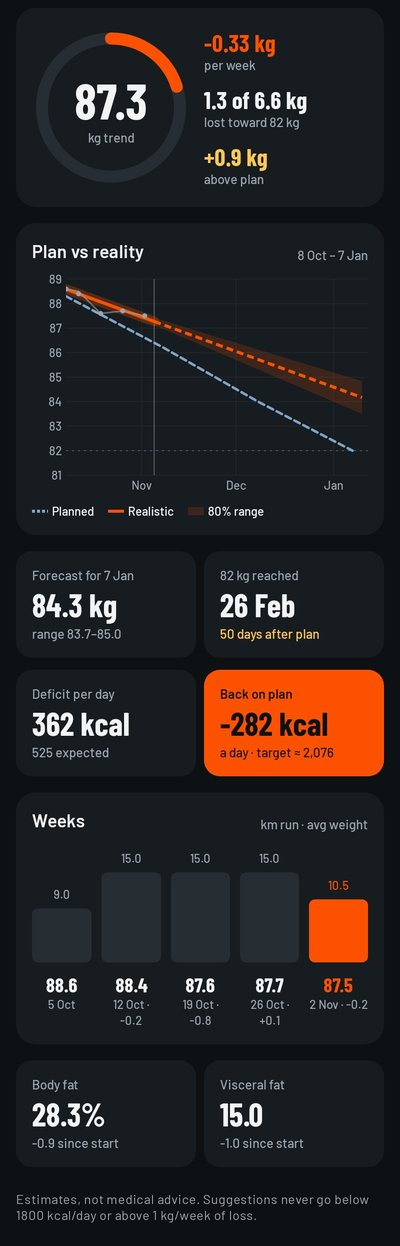
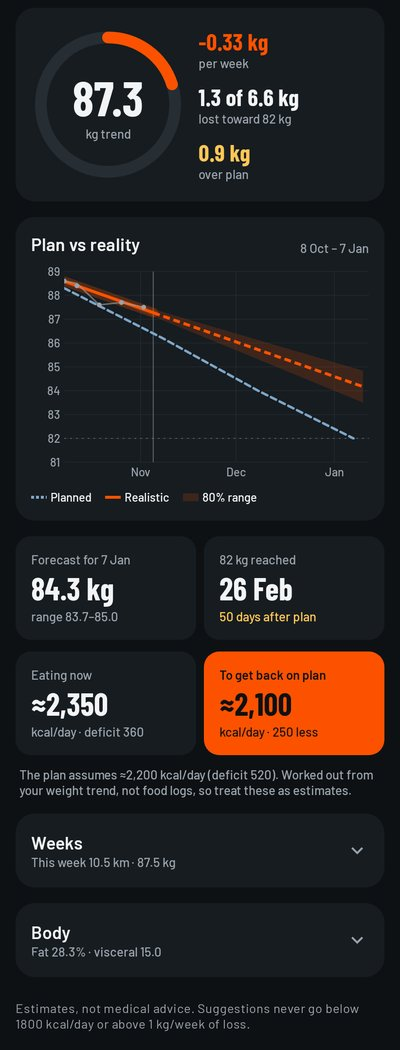
README: screenshots from v0.3.2, first tab called Trend
Claude-Session: https://claude.ai/code/session_01NhF2XaJMtCFQsU6AoPcjWX

diff --git a/README.md b/README.md
@@ -3,15 +3,15 @@
 A personal Android app for weight loss. It compares the **planned** trajectory with a **realistic**, data-driven forecast
 that updates every time you log a weight. Everything stays on the phone: no accounts, no cloud.
 
-| Dashboard | Today | Runs | Body | Plan |
+| Trend | Today | Runs | Body | Plan |
 |---|---|---|---|---|
-| ![Dashboard](docs/screenshots/1-dashboard.jpg) | ![Today](docs/screenshots/2-today.jpg) | ![Runs](docs/screenshots/3-runs.jpg) | ![Body](docs/screenshots/5-body.jpg) | ![Plan](docs/screenshots/4-plan.jpg) |
+| ![Trend](docs/screenshots/1-dashboard.jpg) | ![Today](docs/screenshots/2-today.jpg) | ![Runs](docs/screenshots/3-runs.jpg) | ![Body](docs/screenshots/5-body.jpg) | ![Plan](docs/screenshots/4-plan.jpg) |
 
 Screenshots are rendered from sample data by the Robolectric screenshot tests; CI uploads fresh ones as the `screenshots` artifact on every run.
 
 ## Features
 - **Today:** one running card: today's run (it turns into a "Run done" state once logged, with a short "Run logged" banner and a check pulse), the rest-day switch until a run is logged, and the Mon–Sun week dots with the week's runs and km. On your weekly weigh-in day it shows the weight entry (a drag ruler in 0.1 kg steps with the plan and last week marked, typing, or a scale screenshot), then a "Weigh-in saved" card whose goal ring fills to the new weight; other days show when the next weigh-in is, with a shortcut to change the day.
-- **Dashboard:**
+- **Trend:**
   - Planned vs realistic chart with an 80 % band.
   - Trend weight and rate, predicted weight on the goal date, ETA for the goal weight, gap vs plan in kg and days.
   - Energy: estimated daily intake now and the intake that gets you back on plan (rounded to 50 kcal, never below 1800), with the deficits in small print. Worked out from the weight trend, so no food logging is needed.

diff --git a/HANDOVER.md b/HANDOVER.md
@@ -41,7 +41,7 @@ Personal Android weight-loss tracker for one user (male, 32, 170 cm). It compare
 | [#25](https://github.com/midhun221B/Wt-tracker/pull/25) | One plan-gap wording ("over plan" / "under plan" / "on plan") on Trend, the Plan timeline and the weigh-in card; no "×" on the activity factor field; grey empty fastest pace; version 0.3.2 (`v0.3.2` release) |
 
 ### Not merged
-Nothing pending.
+- Branch `claude/fervent-ptolemy-ho7r2a`: README screenshots (`docs/screenshots/`) refreshed from v0.3.2 (new Plan timeline, "over plan" wording, current Today); the README calls the first tab "Trend", as the app does.
 
 ### Features in the app today
 - **Today:** one running card (today's run, add run, rest day, week numbers); while the week's weigh-in is due, the weigh-in card (drag ruler in 0.1 kg steps with plan and last-week marks, typing, or scale screenshot), weight only, then a "Weigh-in saved" card with the goal ring filling to the new weight; otherwise a one-line "Next weigh-in" card (tap to change the day; "Edit" opens the week's logged entry).
